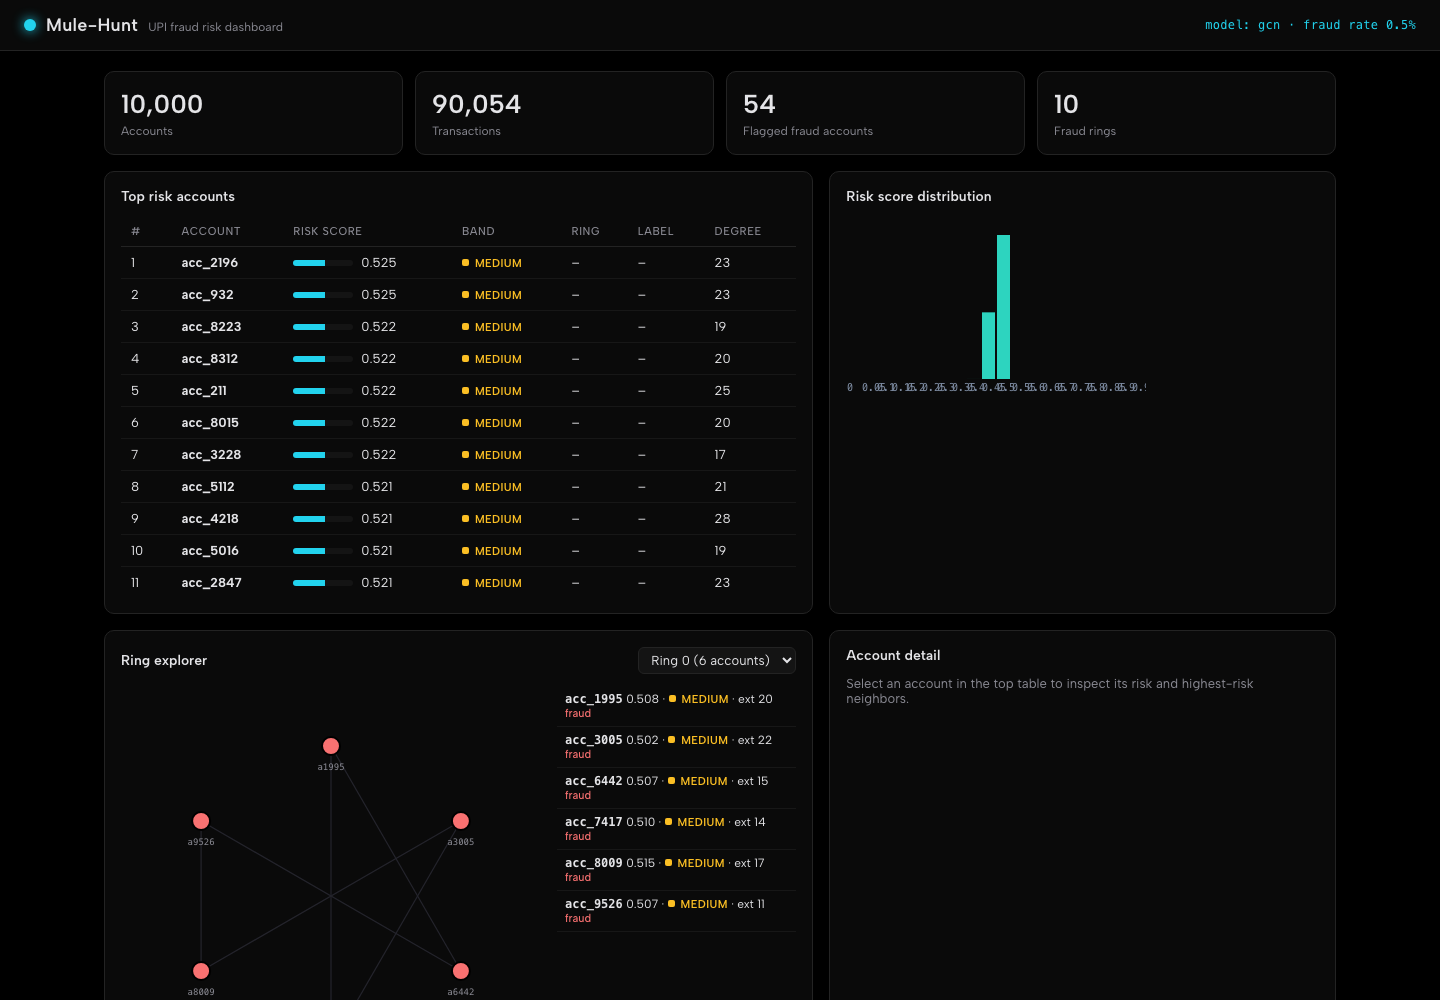
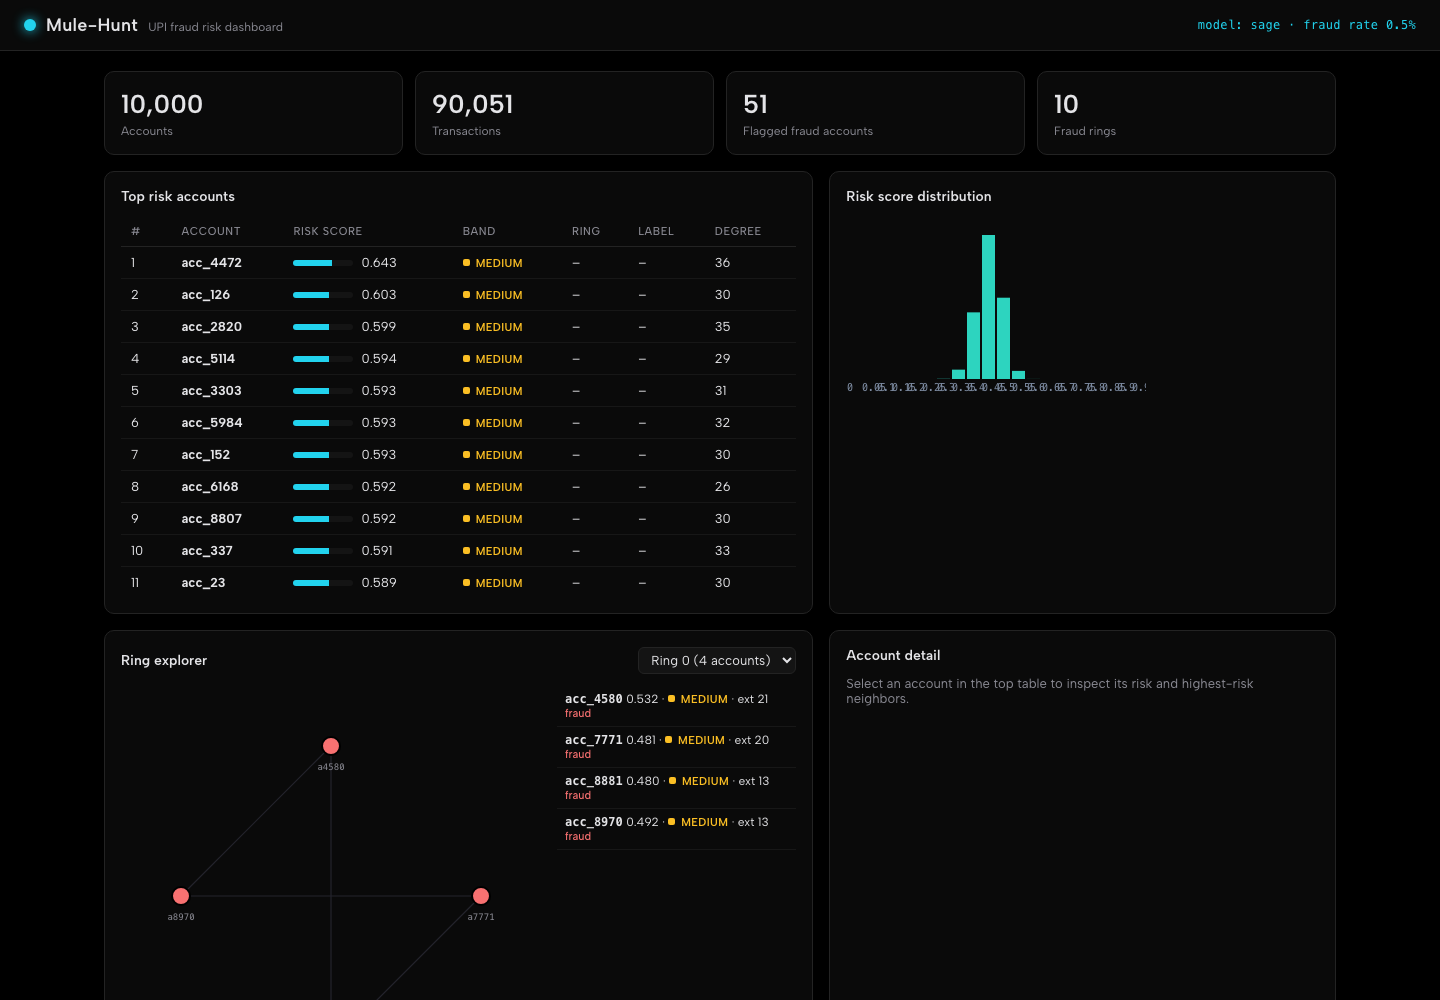
Model-grounded risk explanations (GNNExplainer) (#6)
* Model-grounded explanations via GNNExplainer

- /api/explain runs GNNExplainer on the account's 2-hop neighborhood
  (capped at 512 nodes) and returns model_evidence: top driving features
  and most influential neighbors
- local explanations cite real model evidence; OpenAI path receives the
  evidence in the prompt
- dashboard shows model drivers under each explanation
- demo capture script for dashboard screenshots
- README Dashboard section shows both views

* Document GNNExplainer explanations in README

diff --git a/frontend/app.js b/frontend/app.js
@@ -106,6 +106,15 @@ async function loadAccount(accountId) {
     try {
       const e = await getJSON(`/api/explain/${encodeURIComponent(a.account_id)}`);
       text.textContent = e.explanation;
+      const ev = e.model_evidence;
+      if (ev && ev.top_features && ev.top_features.length) {
+        const feats = ev.top_features.map((f) => f.feature).join(", ");
+        const nb = ev.top_neighbors && ev.top_neighbors[0] ? `; top neighbor ${ev.top_neighbors[0].account_id}` : "";
+        text.insertAdjacentHTML(
+          "afterend",
+          `<p class="muted evidence-note">model drivers: ${feats}${nb}</p>`
+        );
+      }
       if (e.source === "openai") {
         text.insertAdjacentHTML(
           "afterend",

diff --git a/src/upifraud/api.py b/src/upifraud/api.py
@@ -261,8 +261,85 @@ def create_app(
             ],
         }
 
-    def _local_explanation(ctx: dict) -> str:
+    def _explainer_facts(idx: int) -> dict:
+        """Model-grounded evidence: which features and which neighbors drive
+        the risk score, via GNNExplainer on the account's 2-hop neighborhood
+        (capped for dashboard latency). Empty dict if it cannot be computed.
+        """
+        from torch_geometric.explain import Explainer, GNNExplainer, ModelConfig
+
+        n = data.num_nodes
+        hop = torch.zeros(n, dtype=torch.bool)
+        hop[idx] = True
+        frontier = {idx}
+        for _ in range(2):
+            nxt: set[int] = set()
+            for u in frontier:
+                nbr = torch.nonzero((data.edge_index[0] == u) | (data.edge_index[1] == u)).flatten()
+                nxt.update(int(v) for v in data.edge_index[:, nbr].unique())
+            frontier |= nxt
+            if len(frontier) > 512:
+                break
+        sub = sorted(frontier)
+        sub_map = {u: i for i, u in enumerate(sub)}
+        in_sub = torch.tensor([s in sub_map for s in data.edge_index[0].tolist()]) & torch.tensor(
+            [s in sub_map for s in data.edge_index[1].tolist()]
+        )
+        edges = data.edge_index[:, in_sub]
+        eidx = torch.stack(
+            [torch.tensor([sub_map[int(u)] for u in edges[0]]), torch.tensor([sub_map[int(u)] for u in edges[1]])]
+        )
+
+        class _Wrapper(torch.nn.Module):
+            def __init__(self, m):
+                super().__init__()
+                self.m = m
+
+            def forward(self, x, edge_index):
+                return self.m(x, edge_index).unsqueeze(-1)
+
+        explainer = Explainer(
+            model=_Wrapper(model),
+            algorithm=GNNExplainer(epochs=60, lr=0.01),
+            explanation_type="model",
+            node_mask_type="attributes",
+            edge_mask_type="object",
+            model_config=ModelConfig(mode="binary_classification", task_level="node", return_type="raw"),
+        )
+        x_sub = x[torch.tensor(sub)]
+        ex = explainer(x_sub, eidx, index=sub_map[idx])
+        feat_imp = ex.node_mask[sub_map[idx]].abs().tolist()
+        names = getattr(data, "feature_names", None) or [f"f{i}" for i in range(len(feat_imp))]
+        top_feat = sorted(zip(names, feat_imp), key=lambda t: -t[1])[:3]
+        edge_imp = ex.edge_mask.tolist()
+        touches = (edges[0] == idx) | (edges[1] == idx)
+        neighbor_ids = [int(edges[1][e]) if int(edges[0][e]) == idx else int(edges[0][e]) for e in touches.nonzero().flatten()]
+        top_edge = sorted(zip(neighbor_ids, [edge_imp[i] for i in touches.nonzero().flatten().tolist()]), key=lambda t: -t[1])[:3]
+        return {
+            "top_features": [{"feature": f, "importance": round(v, 3)} for f, v in top_feat if v > 0.01],
+            "top_neighbors": [
+                {
+                    "account_id": idx_to_id[e],
+                    "edge_importance": round(v, 3),
+                    "risk_score": round(float(scores[e]), 3),
+                }
+                for e, v in top_edge
+                if v > 0.01
+            ],
+            "explained_nodes": len(sub),
+        }
+
+    def _local_explanation(ctx: dict, evidence: dict | None = None) -> str:
         parts = []
+        if evidence and evidence.get("top_features"):
+            feats = " and ".join(f["feature"] for f in evidence["top_features"][:2])
+            parts.append(f"is driven mainly by its {feats} features")
+        if evidence and evidence.get("top_neighbors"):
+            nb = evidence["top_neighbors"][0]
+            parts.append(
+                f"is most strongly influenced by neighbor {nb['account_id']} "
+                f"(model edge importance {nb['edge_importance']:.2f})"
+            )
         if ctx["ring_member"]:
             parts.append(
                 f"belongs to a known fraud ring (ring {ctx['ring_id']}); ring members "
@@ -287,14 +364,15 @@ def create_app(
             f"It {detail}."
         )
 
-    def _openai_explanation(ctx: dict) -> str:
+    def _openai_explanation(ctx: dict, evidence: dict | None = None) -> str:
         key = os.environ.get("OPENAI_API_KEY", "")
         if not key:
             return ""
         prompt = (
             "You are an AML risk analyst writing a short narrative for a "
             "suspicious-transaction report. Explain the risk of this payment "
-            f"account in 2-3 plain sentences, non-technical: {json.dumps(ctx)}"
+            "account in 2-3 plain sentences, non-technical: "
+            f"{json.dumps({'context': ctx, 'model_evidence': evidence or {}})}"
         )
         resp = httpx.post(
             "https://api.openai.com/v1/chat/completions",
@@ -318,14 +396,31 @@ def create_app(
         idx = id_to_idx.get(account_id)
         if idx is None:
             raise HTTPException(status_code=404, detail=f"unknown account {account_id}")
+        try:
+            evidence = _explainer_facts(idx)
+        except (RuntimeError, ValueError, TypeError, IndexError):
+            import traceback
+
+            traceback.print_exc()
+            evidence = {}
         ctx = _context(idx)
         try:
-            text = _openai_explanation(ctx)
+            text = _openai_explanation(ctx, evidence)
         except (httpx.HTTPError, KeyError, IndexError, ValueError):
             text = ""
         if text:
-            return {"account_id": account_id, "source": "openai", "explanation": text}
-        return {"account_id": account_id, "source": "local", "explanation": _local_explanation(ctx)}
+            return {
+                "account_id": account_id,
+                "source": "openai",
+                "explanation": text,
+                "model_evidence": evidence,
+            }
+        return {
+            "account_id": account_id,
+            "source": "local",
+            "explanation": _local_explanation(ctx, evidence),
+            "model_evidence": evidence,
+        }
 
     if frontend_dir is not None and frontend_dir.is_dir():
         app.mount("/", StaticFiles(directory=frontend_dir, html=True), name="dashboard")

diff --git a/scripts/make_demo_gif.py b/scripts/make_demo_gif.py
@@ -1,0 +1,77 @@
+"""Dev-only script: capture dashboard states and render docs/demo.gif.
+
+Requires: uv pip install playwright && playwright install chromium
+
+Usage: .venv/bin/python scripts/make_demo_gif.py [--base http://127.0.0.1:8000]
+Frames are written to /tmp/mulehunt_frames/, then assembled with ffmpeg.
+"""
+
+from __future__ import annotations
+
+import argparse
+import subprocess
+from pathlib import Path
+
+from playwright.sync_api import sync_playwright
+
+FRAME_DIR = Path("/tmp/mulehunt_frames")
+OUT = Path("docs/demo.gif")
+
+
+def main() -> None:
+    ap = argparse.ArgumentParser()
+    ap.add_argument("--base", default="http://127.0.0.1:8000")
+    ap.add_argument("--width", type=int, default=1440)
+    ap.add_argument("--height", type=int, default=1000)
+    args = ap.parse_args()
+
+    FRAME_DIR.mkdir(parents=True, exist_ok=True)
+    for f in FRAME_DIR.glob("*.png"):
+        f.unlink()
+
+    with sync_playwright() as p:
+        browser = p.chromium.launch()
+        page = browser.new_page(viewport={"width": args.width, "height": args.height})
+        page.goto(args.base, wait_until="networkidle")
+
+        page.wait_for_selector("#top-table tbody tr", timeout=20000)
+        page.wait_for_selector("#ring-svg")
+        page.wait_for_timeout(1500)
+        page.screenshot(path=str(FRAME_DIR / "1_overview.png"))
+
+        page.click("#top-table tbody tr")
+        page.wait_for_selector("#detail h3", timeout=10000)
+        page.wait_for_timeout(800)
+        page.screenshot(path=str(FRAME_DIR / "2_account.png"))
+
+        page.click("#explain-btn")
+        page.wait_for_function(
+            "document.getElementById('explain-text').textContent.startsWith('generating') === false && "
+            "document.getElementById('explain-text').textContent.length > 10",
+            timeout=60000,
+        )
+        page.wait_for_timeout(1200)
+        page.screenshot(path=str(FRAME_DIR / "3_explain.png"))
+
+        page.select_option("#ring-select", index=0)
+        page.wait_for_timeout(1500)
+        page.screenshot(path=str(FRAME_DIR / "4_ring.png"))
+
+        browser.close()
+
+    frames = ["1_overview", "2_account", "3_explain", "4_ring"]
+    hold = "1.6"
+    inputs = []
+    for f in frames:
+        inputs += ["-loop", "1", "-t", hold, "-i", str(FRAME_DIR / f"{f}.png")]
+    fc = ";".join(f"[{i}:v]scale=900:-1,split=1[a{i}]" for i in range(len(frames)))
+    fc += ";" + "".join(f"[a{i}]" for i in range(len(frames))) + f"concat=n={len(frames)}:v=1:a=0[out]"
+    subprocess.run(
+        ["ffmpeg", "-y", *inputs, "-filter_complex", fc, "-map", "[out]", str(OUT)],
+        check=True,
+    )
+    print(f"wrote {OUT} ({OUT.stat().st_size / 1024:.0f} KiB)")
+
+
+if __name__ == "__main__":
+    main()

diff --git a/tests/test_api.py b/tests/test_api.py
@@ -96,5 +96,6 @@ def test_explain_fallback_local(tmp_path, monkeypatch):
     body = resp.json()
     assert body["source"] == "local"
     assert len(body["explanation"]) > 20
+    assert isinstance(body["model_evidence"], dict)
 
     assert client.get("/api/explain/nope").status_code == 404

diff --git a/README.md b/README.md
@@ -47,6 +47,12 @@ exploration on a live graph, per-account neighborhoods, and plain-English risk
 explanations (optionally generated by an LLM via `OPENAI_API_KEY`, with a
 deterministic local fallback).
 
+Explanations are model-grounded: [GNNExplainer](https://pytorch-geometric.readthedocs.io/en/latest/generated/torch_geometric.explain.algorithm.GNNExplainer.html)
+runs on the account's 2-hop neighborhood and reports which features and which
+neighbors drive the risk score:
+
+![Model-grounded explanation](docs/explain.png)
+
 ## How the pipeline works
 
 ```text
@@ -355,7 +361,7 @@ dashboard endpoints.
 | `GET` | `/api/account/{account_id}` | Account details and high-risk neighbors |
 | `GET` | `/api/ring/{ring_id}` | Ring members and internal edges |
 | `GET` | `/api/distribution?bins=20` | Risk-score histogram |
-| `GET` | `/api/explain/{account_id}` | Plain-language risk explanation |
+| `GET` | `/api/explain/{account_id}` | Plain-language risk explanation + model-grounded evidence (GNNExplainer drivers) |
 
 Risk scores are in `[0, 1]` and mapped to bands as follows:
 
@@ -363,9 +369,14 @@ Risk scores are in `[0, 1]` and mapped to bands as follows:
 - `medium`: `0.4 ≤ score < 0.7`; and
 - `high`: score `≥ 0.7`.
 
-Explanations are generated locally by default. Set `OPENAI_API_KEY` before
-starting the service to enable the optional remote explanation path; the
-service falls back to the local explanation if the request fails.
+Explanations are generated locally by default and are model-grounded: the
+service runs [GNNExplainer](https://pytorch-geometric.readthedocs.io/en/latest/generated/torch_geometric.explain.algorithm.GNNExplainer.html)
+on the account's 2-hop neighborhood (capped at 512 nodes for dashboard
+latency) and reports the features with the highest attribution masks and the
+most influential neighbors (`model_evidence` in the response). Set
+`OPENAI_API_KEY` before starting the service to enable the optional remote
+explanation path, which rewrites the evidence into a plain-language narrative;
+the service falls back to the local explanation if the request fails.
 
 ## Repository layout
 
